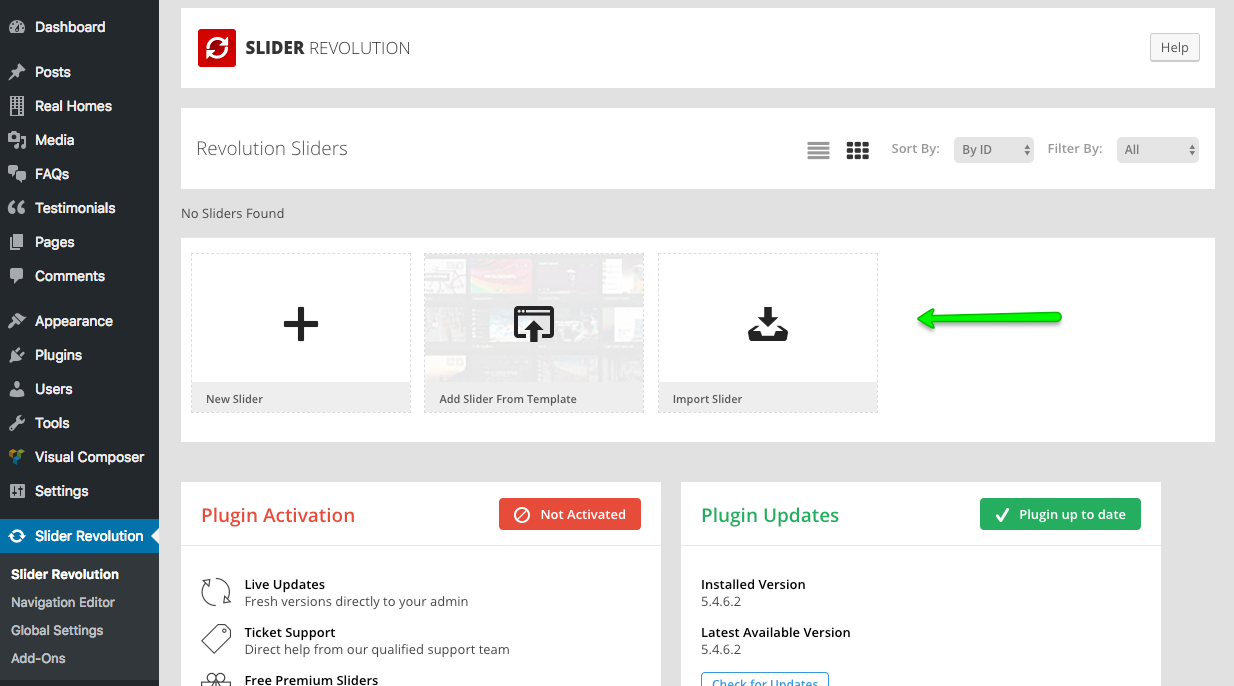
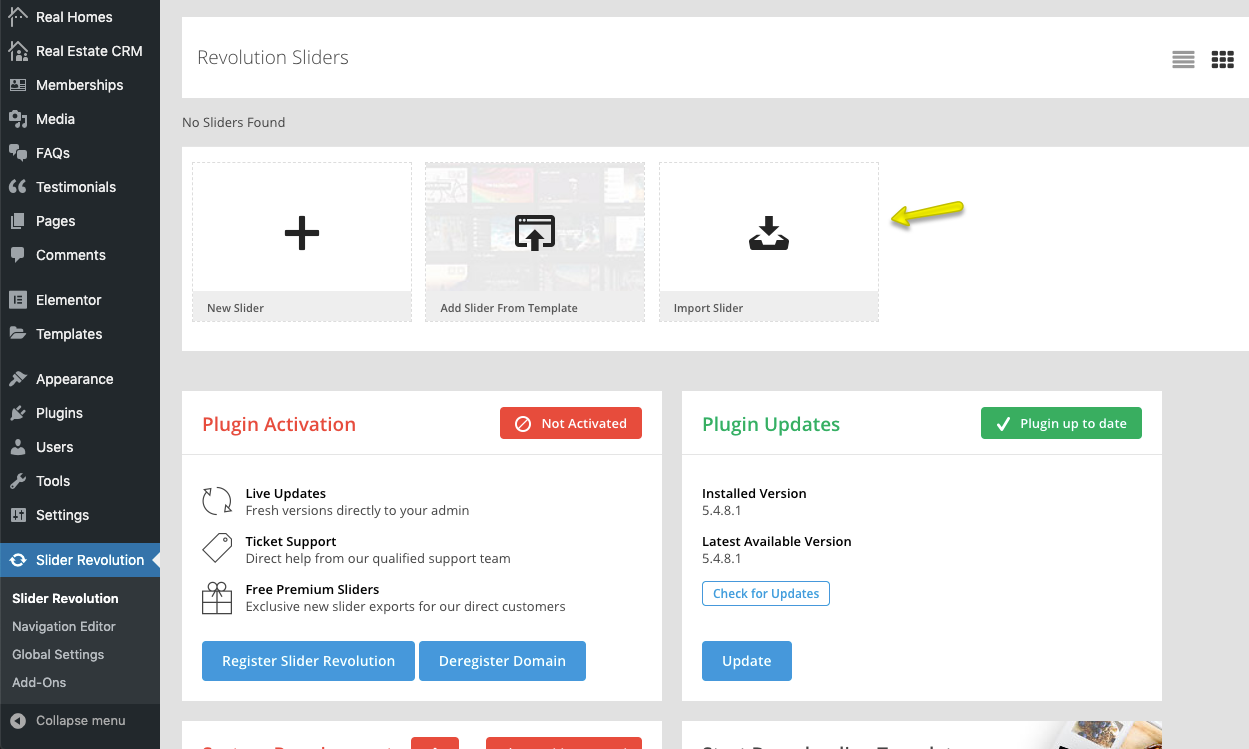
Updated “Slider Revolution” guide section.

diff --git a/docs/slider-revolution.md b/docs/slider-revolution.md
@@ -1,10 +1,16 @@
 # Revolution Slider
 ### **Import Real Homes Slider for Revolution Slider**
 
-After installing Revolution Slider please navigate to **Dashboard → Slider Revolution** and click on **Import Slider** as shown in this screenshot below. The zip file of the slider is located in the main package of Real Homes Theme (**rh-main-package → Plugins → Revolution Slider → realhomes-slider-zip → realhomes.zip**).
+After Revolution Slider installation and activation please navigate to **Dashboard → Slider Revolution** and click on **Import Slider** as shown in this screenshot below. The zip file of the slider is located in the main package of Real Homes Theme (**rh-main-package → Plugins → Revolution Slider → realhomes-slider-zip → realhomes.zip**).
 
 ![Real Homes Documentation](images/included-plugins/rs-1.png)
 
 Once the slider is imported then set it in the **Customizer Settings** (**Dashboard → Real Homes → Customize Settings → Home Page → Slider Area → What to Display Below Header on Home Page ?** and set this option as **Slider Based on Revolution Slider Plugin** and set **Revolution Slider Alias** as **realhomes**.
 
+**Classic**
+
 ![Real Homes Documentation](images/included-plugins/rs-2.png)
+
+**Modern**
+
+![Real Homes Documentation](images/included-plugins/rs-3.png)
